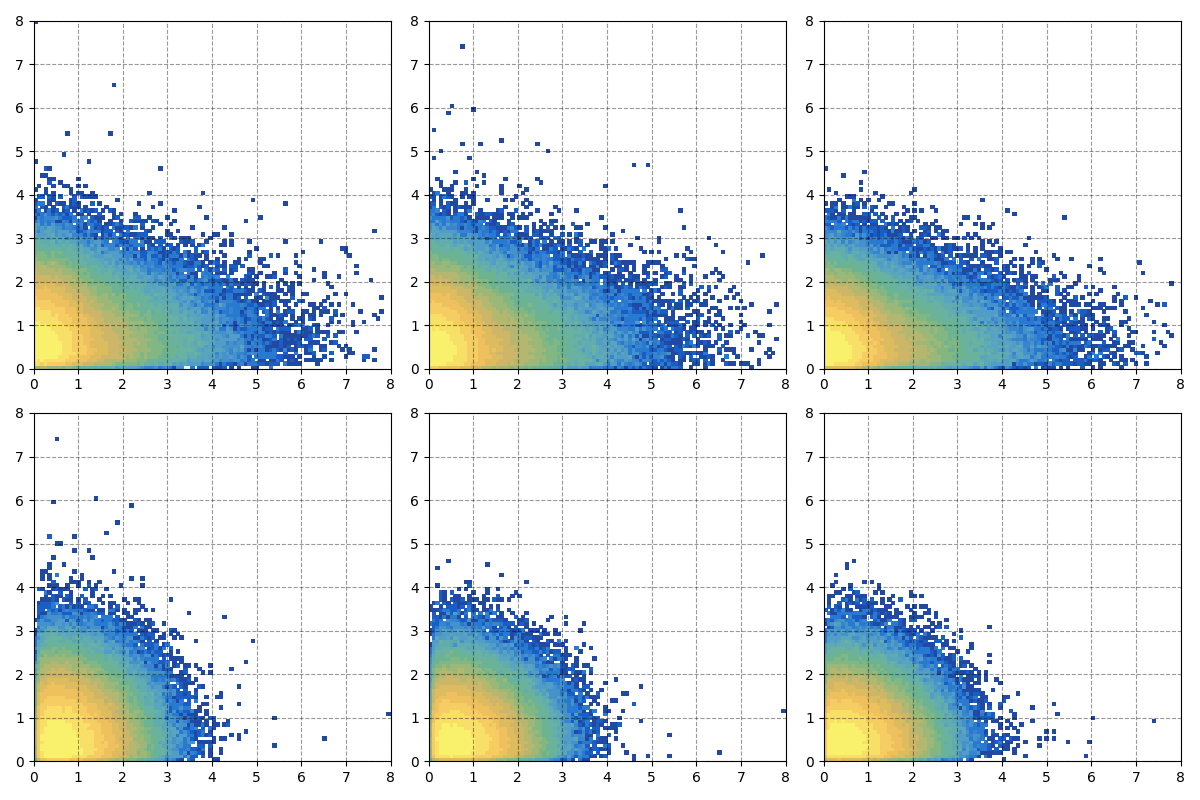
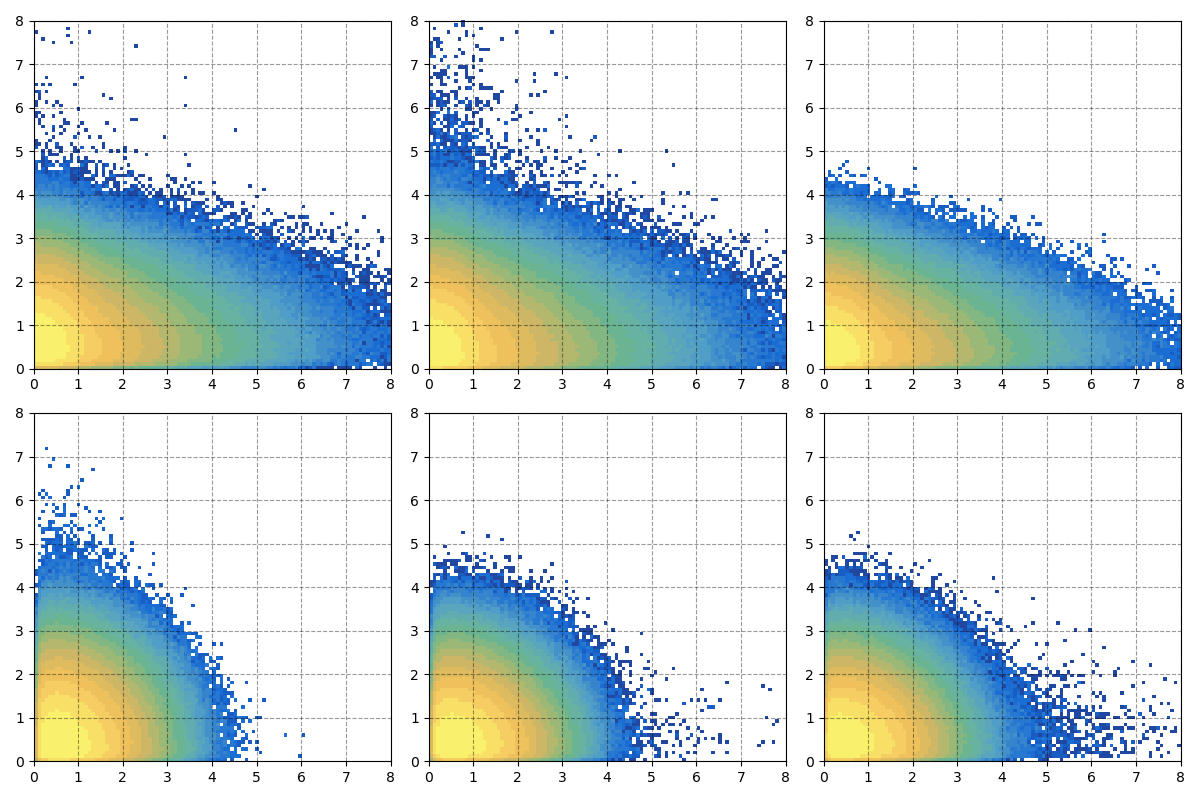
tune

diff --git a/SHiP_GAN_module/muGAN.py b/SHiP_GAN_module/muGAN.py
@@ -172,14 +172,14 @@ class muGAN:
 				        [ 0,  0,  0.5,  1]
 				    ])
 		c = cholesky(r, lower=True)
-		aux_values[np.where(aux_values[:,2]>2)][:int((np.shape(np.where(aux_values[:,2]>2))[0]*0.5))] = np.swapaxes(np.dot(c, np.swapaxes(aux_values[np.where(aux_values[:,2]>2)][:int((np.shape(np.where(aux_values[:,2]>2))[0]*0.5))],0,1)),0,1)
+		aux_values[np.where(aux_values[:,2]>2)][:int((np.shape(np.where(aux_values[:,2]>2))[0]*0.9))] = np.swapaxes(np.dot(c, np.swapaxes(aux_values[np.where(aux_values[:,2]>2)][:int((np.shape(np.where(aux_values[:,2]>2))[0]*0.9))],0,1)),0,1)
 
 
 		r = np.array([
 				        [ 1,  0,  0,  0],
 				        [ 0,  1,  0,  0],
 				        [ 0,  0,  1,  0],
-				        [ 0,  0,  -0.7,  1]
+				        [ 0,  0,  -0.8,  1]
 				    ])
 		c = cholesky(r, lower=True)
 		aux_values[np.where(aux_values[:,3]>2.5)][:int((np.shape(np.where(aux_values[:,3]>2.5))[0]*0.8))] = np.swapaxes(np.dot(c, np.swapaxes(aux_values[np.where(aux_values[:,3]>2.5)][:int((np.shape(np.where(aux_values[:,3]>2.5))[0]*0.8))],0,1)),0,1)

diff --git a/Tune_auxiliary_inputs.py b/Tune_auxiliary_inputs.py
@@ -32,7 +32,7 @@ initial_values = np.empty((4,7))
 
 initial_values[0] = [ 1, 0.1, 0.8, 0, 0, 0, 0] # x y
 initial_values[1] = [ 0, 0, 0, 0.0005, 1.2, 1E-3, 0.27] # z 
-initial_values[2] = [ 0, 0, 0, 0.01, 1.3, 6E-3, 0.12] # px py
+initial_values[2] = [ 0, 0, 0, 0.005, 1.3, 1E-3, 0.12] # px py
 # initial_values[3] = [ 0, 0, 0, 0.003, 1.1, 0, 0.2] # pz
 initial_values[3] = [ 0, 0, 0, 0.5, 0.8, 0, 0.2] # pz
 
